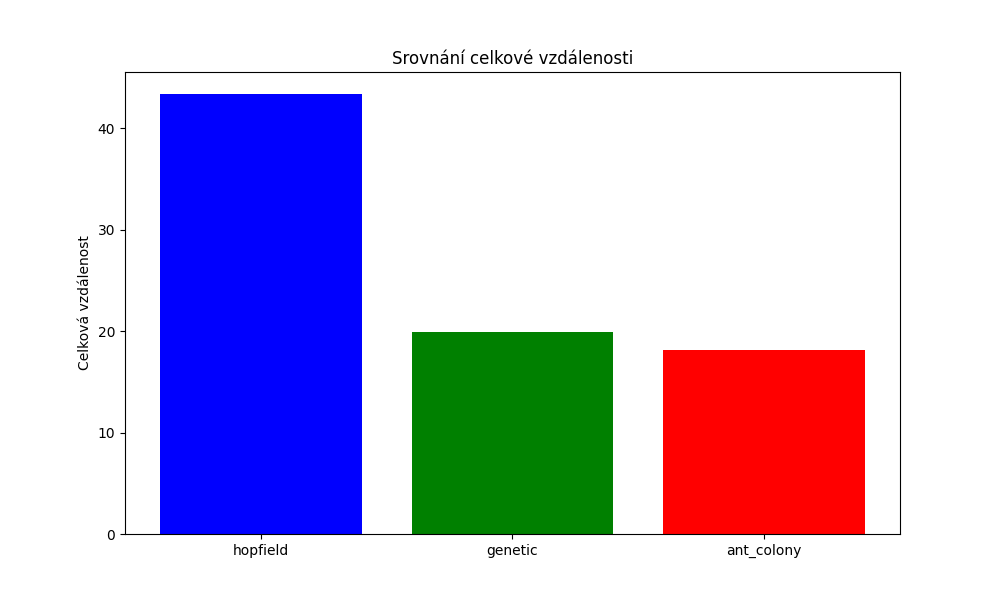
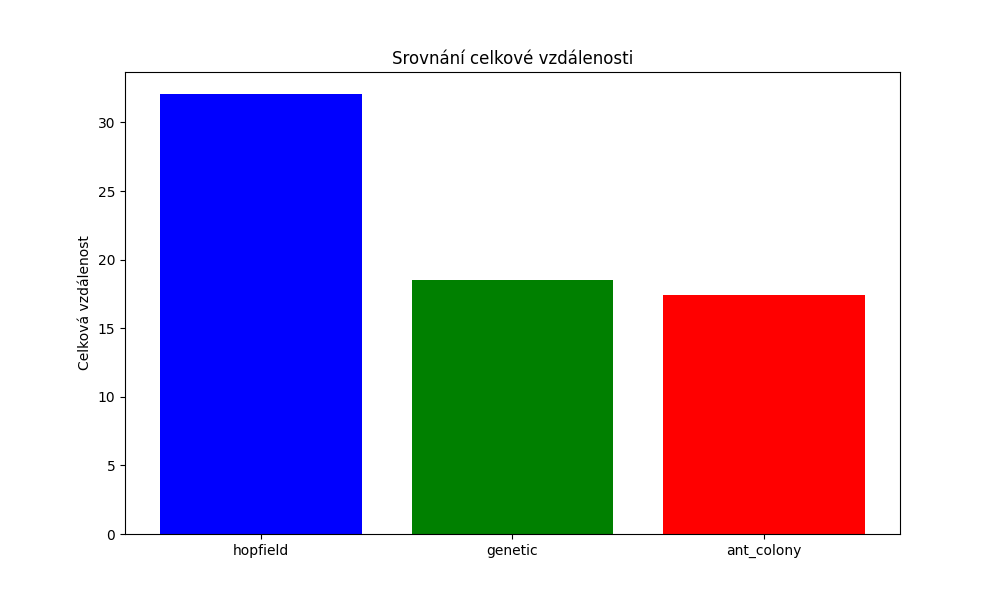
update

diff --git a/Analyzer/AlgorithmAnalyzer.py b/Analyzer/AlgorithmAnalyzer.py
@@ -39,25 +39,37 @@ class AlgorithmAnalyzer:
 
     def analyze_algorithms(self):
         # Porovnává algoritmy pomocí funkce benchmark_algorithm a ukládá výsledky
+        iteration = 1000
         results = {
             "hopfield": benchmark_algorithm(
-                HopfieldovaSit, self.pubs_manager, iterace=1000
+                HopfieldovaSit,
+                self.pubs_manager,
+                iterace=iteration
             ),
             "genetic": benchmark_algorithm(
-                GenetickyAlgoritmus, self.pubs_data, self.pubs_manager, velikost_populace=1000, generace=500, mutace_pravdepodobnost=0.1
+                GenetickyAlgoritmus,
+                self.pubs_data,
+                self.pubs_manager,
+                velikost_populace=iteration,
+                generace=500,
+                mutace_pravdepodobnost=0.1
             ),
             "ant_colony": benchmark_algorithm(
                 MravenciAlgoritmus,
                 self.pubs_data,
                 self.pubs_manager,
                 pocet_mravencu=10,
-                iterace=1000, alfa=1, beta=2, odparovani=0.95
+                iterace=iteration,
+                alfa=1,
+                beta=2,
+                odparovani=0.95
             )
         }
         return results
 
     def run(self):
         # Spustí analýzu a vykreslí výsledky
-        results = self.analyze_algorithms()
-        plot_comparison(results)
-        compare_lengths(results)
+        for iteration in range(0, 3):
+            results = self.analyze_algorithms()
+            plot_comparison(results)
+            compare_lengths(results)

diff --git a/Algoritmy/Hopfield/HopfieldNetwork.py b/Algoritmy/Hopfield/HopfieldNetwork.py
@@ -46,7 +46,12 @@ class HopfieldovaSit:
                         delta_u_ij += -self.config.C * (np.sum(self.neurony) - self.velikost)  # Penalizace za počet aktivací
 
                         u_ij += self.config.step * delta_u_ij  # Aktualizace hodnoty neuronu pomocí gradientního sestupu
-                        self.neurony[i, j] = 1 / (1 + np.exp(-self.config.u0 * u_ij))  # Sigmoideální aktivační funkce
+
+                        # Skoková aktivační funkce
+                        if u_ij >= 0:
+                            self.neurony[i, j] = 1
+                        else:
+                            self.neurony[i, j] = -1
 
     # Najde nejlepší cestu podle stavů neuronů
     def najdi_nejlepsi_cestu(self):
